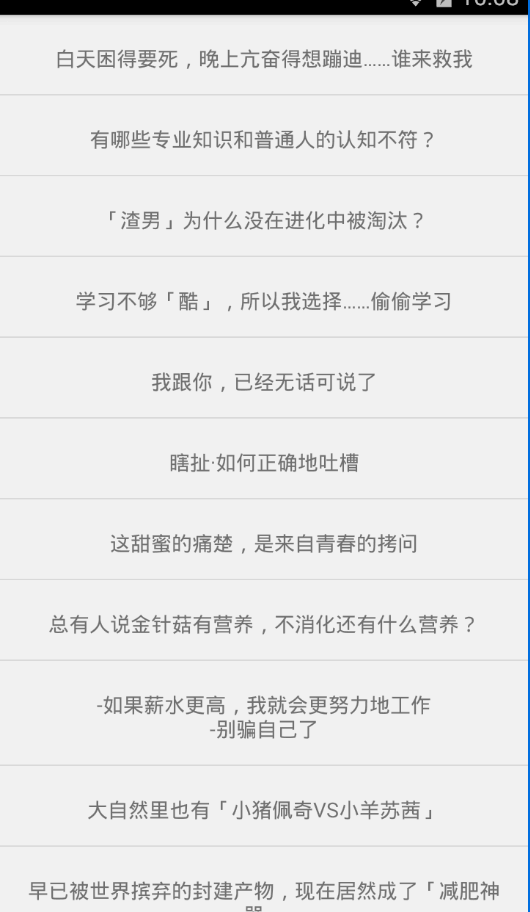
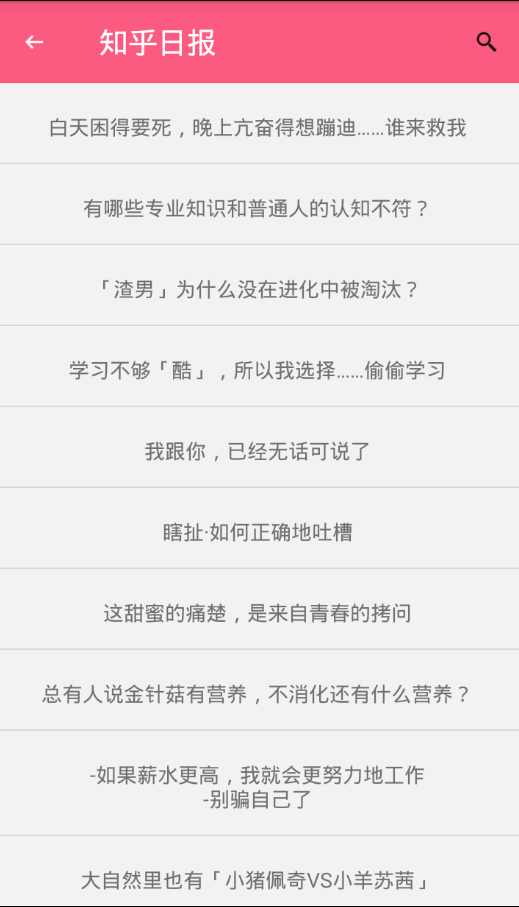
Title(需求)：阅读页面添加toolbar clause: solution effect: review

diff --git a/app/src/main/java/com/example/txl/gankio/viewimpl/WebActivity.java b/app/src/main/java/com/example/txl/gankio/viewimpl/WebActivity.java
@@ -2,6 +2,9 @@ package com.example.txl.gankio.viewimpl;
 
 import android.content.Intent;
 import android.os.Bundle;
+import android.support.v7.widget.Toolbar;
+import android.view.Menu;
+import android.view.View;
 import android.webkit.WebView;
 
 import com.example.txl.gankio.R;
@@ -12,21 +15,48 @@ import butterknife.ButterKnife;
 
 public class WebActivity extends BaseActivity {
 
+    String url;
+
     @BindView( R.id.web_view )
     WebView webView;
+    @BindView( R.id.web_activity_toolbar )
+    Toolbar toolbar;
 
     @Override
     protected void onCreate(Bundle savedInstanceState) {
         super.onCreate( savedInstanceState );
         setContentView( R.layout.activity_web );
         ButterKnife.bind( this );
+        Intent intent = getIntent();
+        url = intent.getStringExtra( "url");
+        initView();
         initData();
+    }
+
+    @Override
+    public boolean onCreateOptionsMenu(Menu menu) {
+        getMenuInflater().inflate(R.menu.navigation_menu_search, menu);
+        return super.onCreateOptionsMenu(menu);
+    }
+
+    @Override
+    protected void initView() {
+        super.initView();
+        toolbar.setTitle( url );
+        toolbar.setNavigationIcon( R.drawable.icons8_go_back_24 );
+        setSupportActionBar( toolbar );
+        toolbar.setNavigationOnClickListener( new View.OnClickListener() {
+            @Override
+            public void onClick(View v) {
+                finish();
+            }
+        } );
     }
 
     @Override
     protected void initData() {
         super.initData();
-        Intent intent = getIntent();
-        webView.loadUrl( intent.getStringExtra( "url" ) );
+
+        webView.loadUrl( url );
     }
 }

diff --git a/README.md b/README.md
@@ -18,6 +18,6 @@ ScreenShot：
 
 ![闲读资讯分类浏览](https://github.com/xiaolutang/GankIo/raw/master/app/image/idel_info.png)
 
-![阅读资讯页面](https://github.com/xiaolutang/GankIo/raw/master/app/image/reader.jpg)
+![阅读资讯页面](https://github.com/xiaolutang/GankIo/raw/master/app/image/reader.png)
 
 ![视频播放界面](https://github.com/xiaolutang/GankIo/raw/master/app/image/play_video.png)
